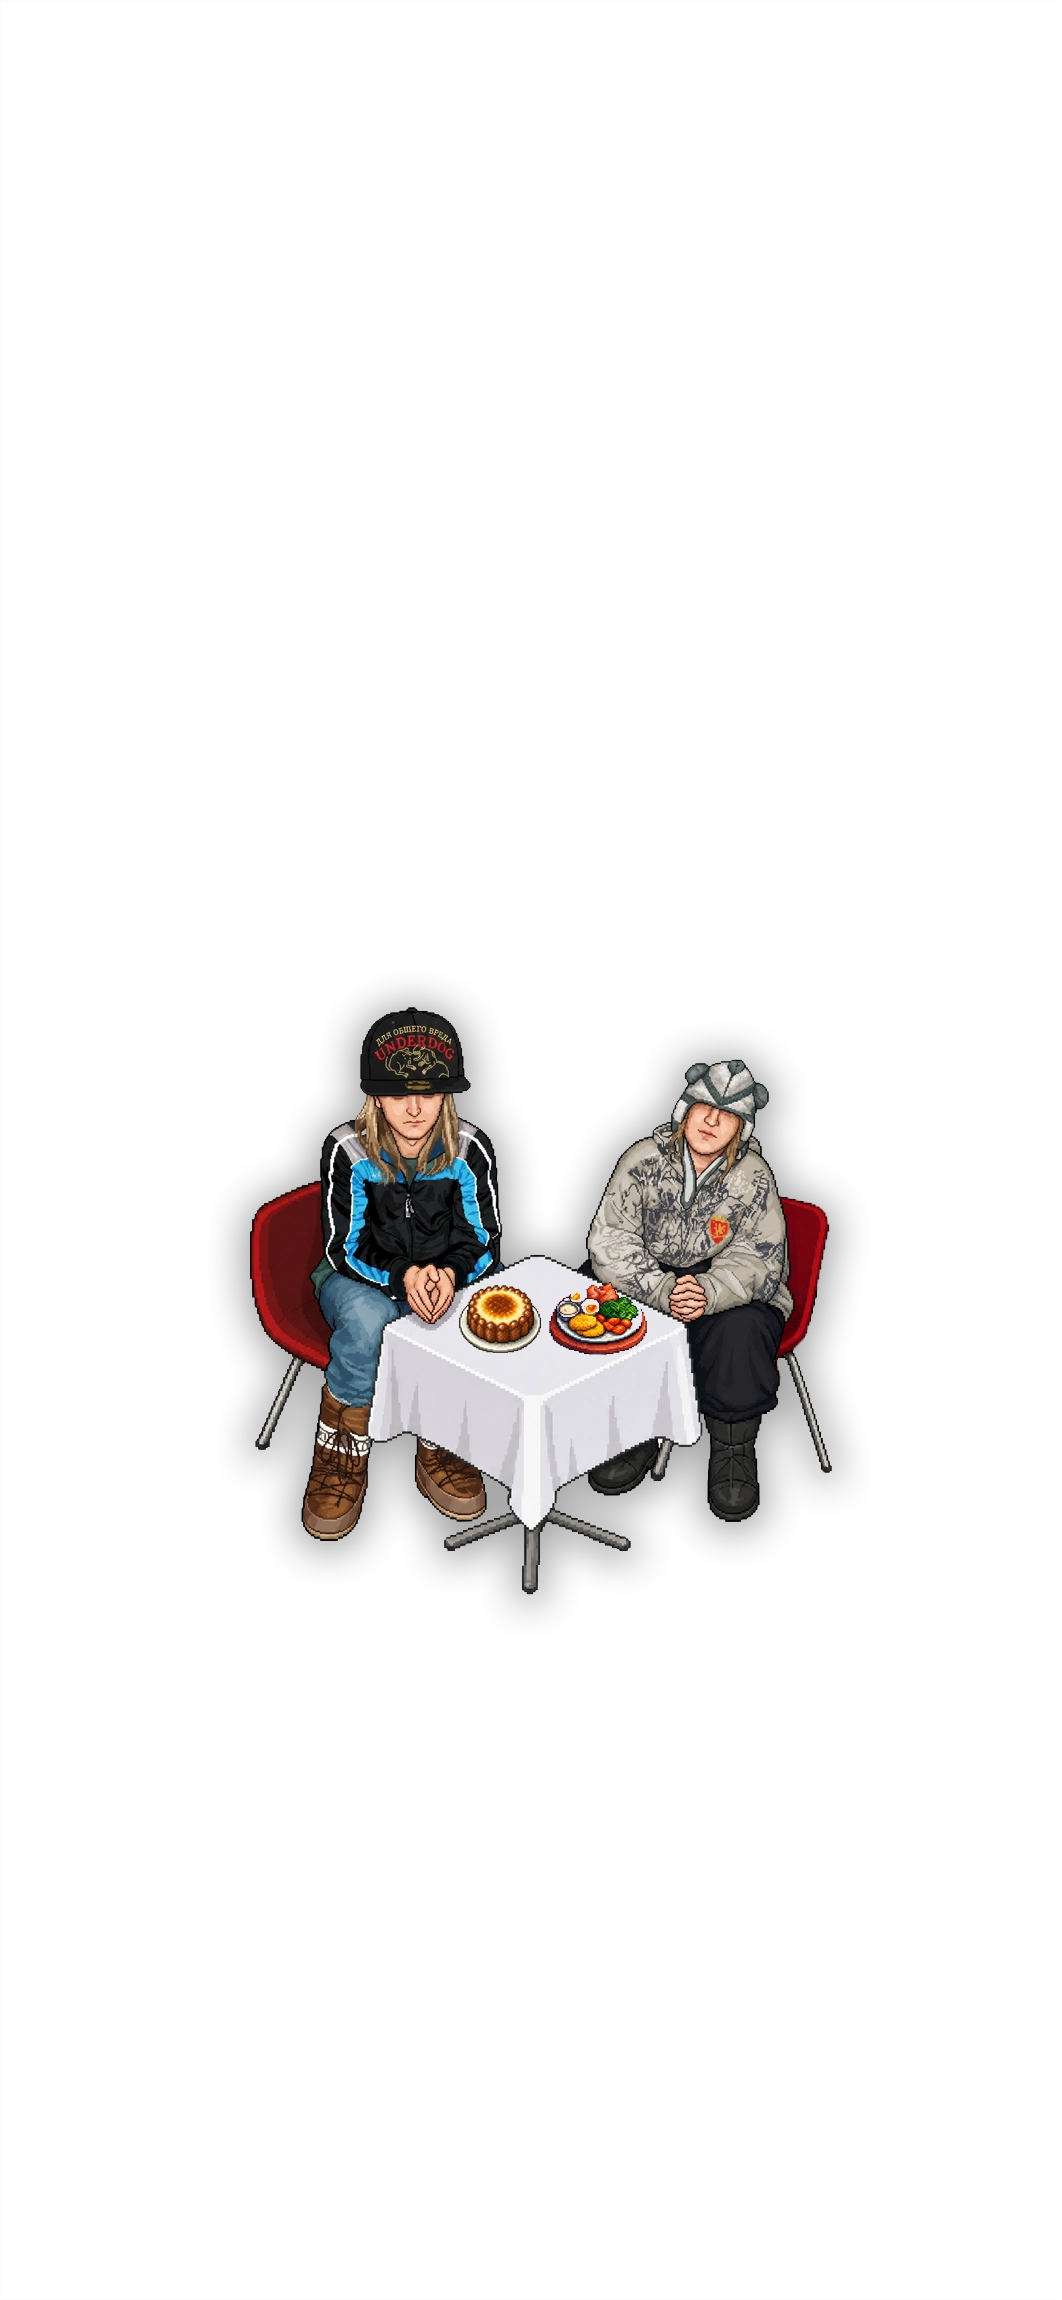
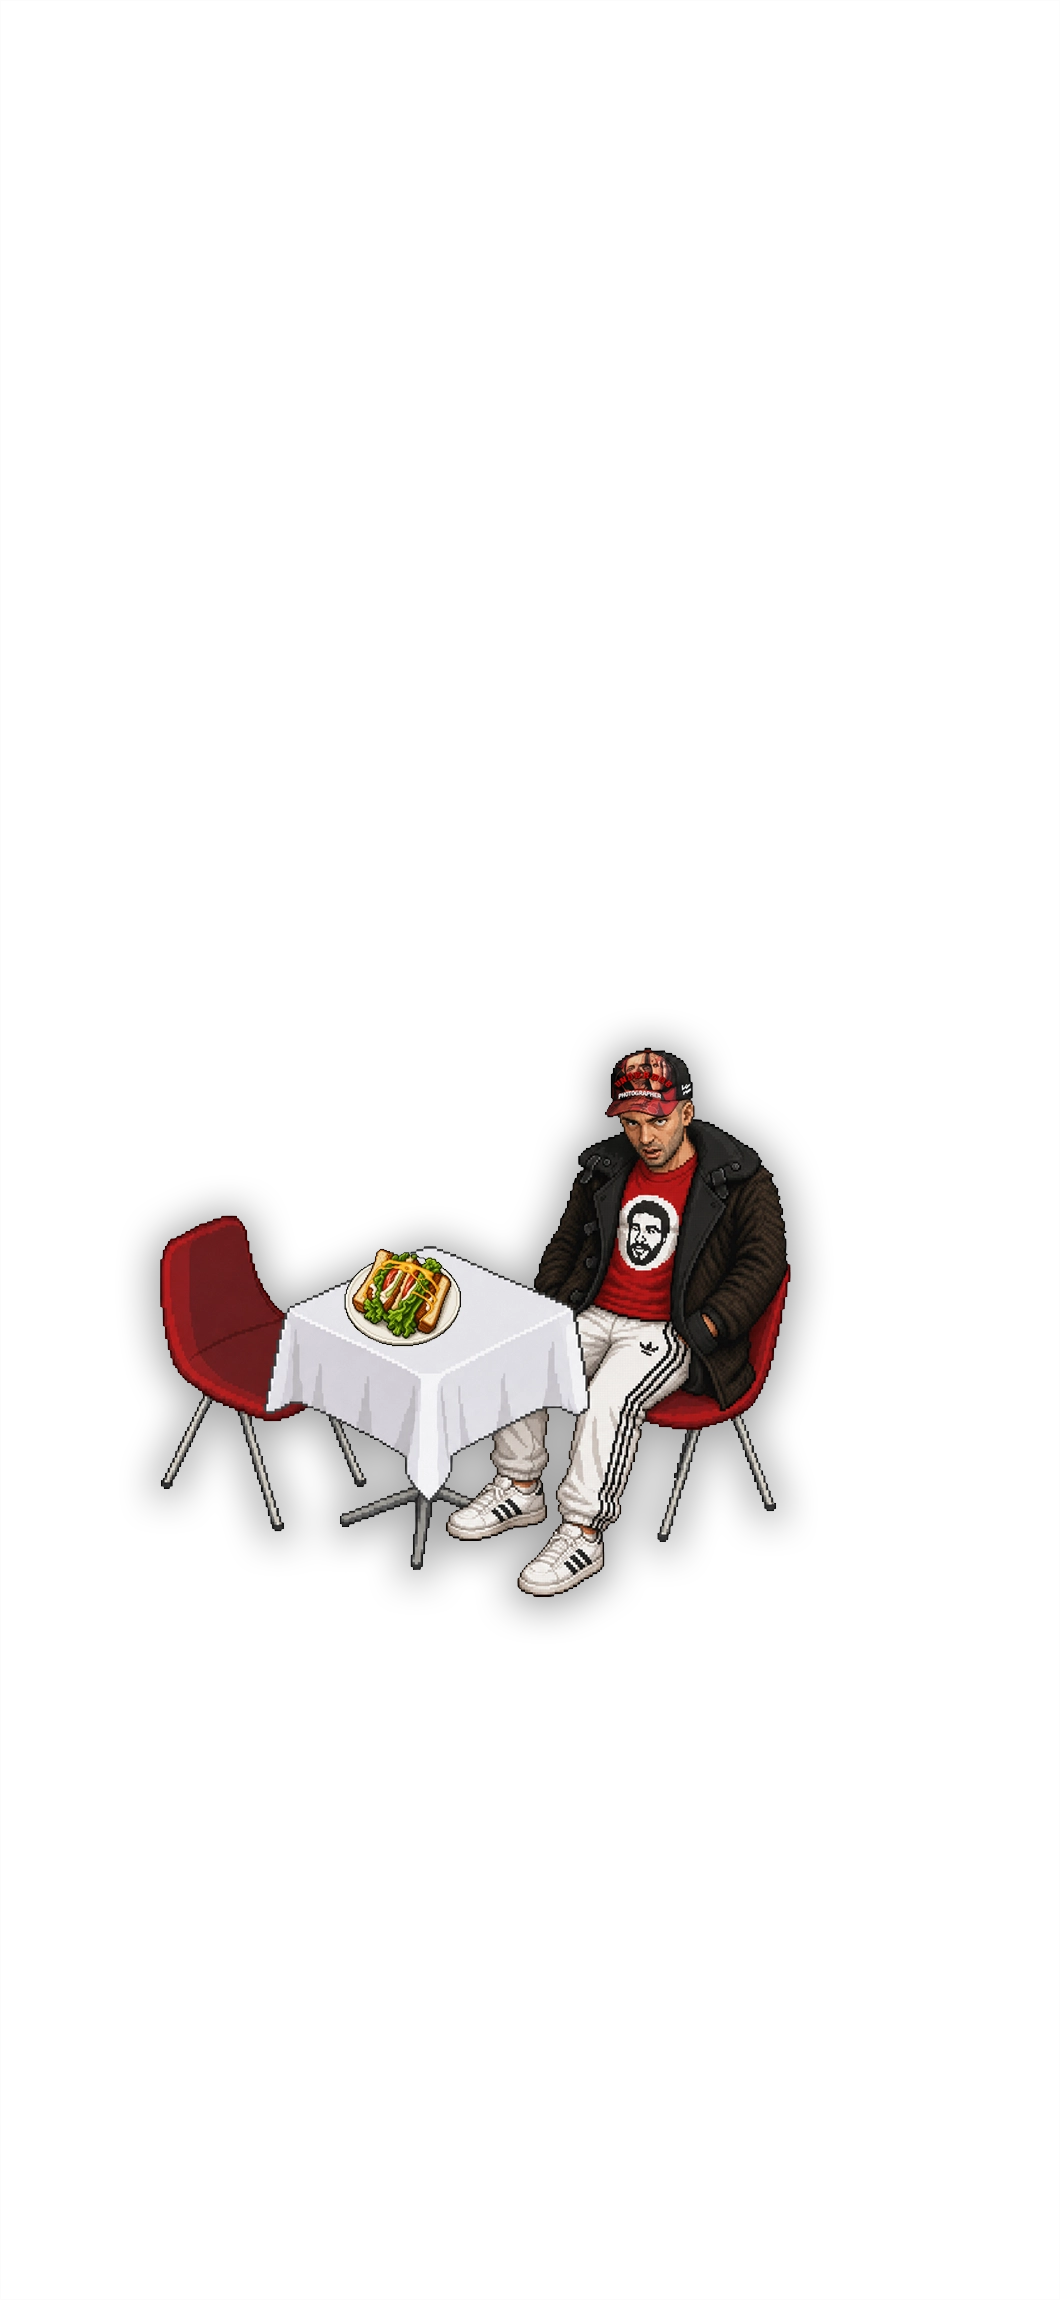
Swap sixth cafe guest for third

Changed region(s): [[0.1243, 0.4322, 0.8079, 0.71]]

diff --git a/client/src/lib/assetPreloader.ts b/client/src/lib/assetPreloader.ts
@@ -36,7 +36,7 @@ const ASSETS_TO_PRELOAD: AssetEntry[] = [
   { kind: 'image', path: '/assets/shagi_preload.png' },
   { kind: 'image', path: '/assets/listik_meshok.webp' },
   ...CAFE_GUIDE_STEPS.map((step) => ({ kind: 'image' as const, path: step.asset })),
-  ...[1, 2, 5, 6, 7].map((index) => ({
+  ...[1, 2, 5, 3, 7].map((index) => ({
     kind: 'image' as const,
     path: `/assets/gost_menu_${index}.webp`,
   })),

diff --git a/client/src/components/CafeMenu.tsx b/client/src/components/CafeMenu.tsx
@@ -21,7 +21,7 @@ interface Props {
   onRunnerPlay: () => void;
 }
 
-const TEST_GOST_MENU_SEQUENCE = [1, 2, 5, 6, 7] as const;
+const TEST_GOST_MENU_SEQUENCE = [1, 2, 5, 3, 7] as const;
 const GOST_MENU_UPDATE_INTERVAL_MS = 60_000;
 const MUSIC_ON_ICON_SRC = '/assets/music_on.webp?v=2';
 const MUSIC_OFF_ICON_SRC = '/assets/music_off.webp?v=2';
